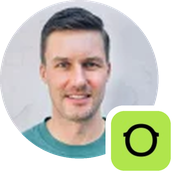
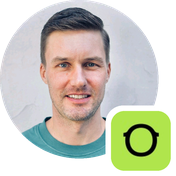
Author cards: new headshots, a card per author, role and bio on each skill page
The 04.11 author cards are now in the repo:
- avatars re-rendered from the new headshots (new photos for Bogdan Liutic,
  George Coudounaris and Moby Hayat), same round photo and company badge
- AUTHORS.md opens with a card per author: role, company, bio, what they
  wrote, LinkedIn and website; the credit tables follow under "Credit lines"
- each practitioner's skill page shows role and company and an
  "About the author" section
- no counts: "The other 26 skills" and "15 rules" read without the number

diff --git a/AUTHORS.md b/AUTHORS.md
@@ -2,7 +2,38 @@
 
 Every skill and scenario in this repository is published under [CC BY 4.0](LICENSE) with its author named. When you share or adapt one, credit the author below, link to the source folder and the licence, and say what you changed.
 
-## Scenarios
+## The authors
+
+<table>
+<tr>
+<td width="50%" valign="top"><a name="justin-rowe"></a><a href="https://www.linkedin.com/in/justin-rowe-4043339b/"><img src="assets/authors/justin-rowe.png" width="56" height="56" align="left" alt="Justin Rowe"></a>&nbsp; <b>Justin Rowe</b><br>&nbsp; <sub>Founder &amp; CEO · Impactable</sub><br clear="left"><br>Founder and CEO of Impactable, a LinkedIn-centered B2B demand agency that runs marketing ecosystems as one connected system. Specializes in signal-based targeting and account-level measurement tied to real deals and pipeline.<br><br><b>Wrote:</b> <a href="warm-lead-handoff">Warm-lead handoff</a> <sub>(scenario)</sub><br><br><sub><a href="https://www.linkedin.com/in/justin-rowe-4043339b/">LinkedIn</a> · <a href="https://impactable.com/">impactable.com</a></sub></td>
+<td width="50%" valign="top"><a name="roman-slobodzianyk"></a><a href="https://www.linkedin.com/in/roman-slobodzianyk-b67549140/"><img src="assets/authors/roman-slobodzianyk.png" width="56" height="56" align="left" alt="Roman Slobodzianyk"></a>&nbsp; <b>Roman Slobodzianyk</b><br>&nbsp; <sub>LinkedIn Ads CoE Leader · Impactable</sub><br clear="left"><br>Leads Impactable&#x27;s LinkedIn Ads Center of Excellence and manages its team of LinkedIn Ads specialists. Sets the standards, AI-assisted workflows and review routines used across the agency&#x27;s B2B client accounts.<br><br><b>Wrote:</b> <a href="account-audit-by-cadence">Account audit by cadence</a> <sub>(scenario)</sub><br><br><sub><a href="https://www.linkedin.com/in/roman-slobodzianyk-b67549140/">LinkedIn</a> · <a href="https://impactable.com/">impactable.com</a></sub></td>
+</tr>
+<tr>
+<td width="50%" valign="top"><a name="george-coudounaris"></a><a href="https://www.linkedin.com/in/b2b-marketing-expert/"><img src="assets/authors/george-coudounaris.png" width="56" height="56" align="left" alt="George Coudounaris"></a>&nbsp; <b>George Coudounaris</b><br>&nbsp; <sub>Co-founder · The B2B Playbook</sub><br clear="left"><br>Runs The B2B Playbook with Kevin Chen, a demand generation agency and consultancy running LinkedIn, Google and Meta ads for B2B teams. Co-hosts The B2B Playbook podcast, now past 200 episodes, and teaches demand generation to B2B marketing and revenue teams through the agency&#x27;s courses.<br><br><b>Wrote:</b> <a href="monthly-targeting-review">Targeting vs who actually buys</a> <sub>(scenario)</sub><br><br><sub><a href="https://www.linkedin.com/in/b2b-marketing-expert/">LinkedIn</a> · <a href="https://theb2bplaybook.com/">theb2bplaybook.com</a></sub></td>
+<td width="50%" valign="top"><a name="joshua-stout"></a><a href="https://www.linkedin.com/in/joshua-stout/"><img src="assets/authors/joshua-stout.png" width="56" height="56" align="left" alt="Joshua Stout"></a>&nbsp; <b>Joshua Stout</b><br>&nbsp; <sub>Founder · Beyond The Funnel</sub><br clear="left"><br>Founder of Beyond The Funnel, a B2B LinkedIn Ads agency. One of 80 LinkedIn Certified Marketing Experts worldwide, he has managed or overseen 1,000+ LinkedIn Ads accounts, helped scale a multimillion-dollar LinkedIn Ads service, and was Director of Advertising at Influent.<br><br><b>Wrote:</b> <a href="company-account-routing">Company-level account routing</a> <sub>(scenario)</sub><br><br><sub><a href="https://www.linkedin.com/in/joshua-stout/">LinkedIn</a> · <a href="https://www.beyondthefunnel.ai/">beyondthefunnel.ai</a></sub></td>
+</tr>
+<tr>
+<td width="50%" valign="top"><a name="jonathan-belliveau"></a><a href="https://www.linkedin.com/in/jonathan-belliveau/"><img src="assets/authors/jonathan-belliveau.png" width="56" height="56" align="left" alt="Jonathan Belliveau"></a>&nbsp; <b>Jonathan Belliveau</b><br>&nbsp; <sub>Founder &amp; Principal Revenue Architect · GrowthMotiv</sub><br clear="left"><br>Built GrowthMotiv, which builds the tracking and account intelligence that tie B2B ad spend to closed revenue. Has spent fifteen years running paid budgets across B2C and B2B SaaS, and specialises in account-based marketing built on Apollo.<br><br><b>Wrote:</b> <a href="audience-fit-check">LinkedIn fit gate + daily fit check</a> <sub>(scenario)</sub><br><br><sub><a href="https://www.linkedin.com/in/jonathan-belliveau/">LinkedIn</a> · <a href="https://growthmotiv.com/">growthmotiv.com</a></sub></td>
+<td width="50%" valign="top"><a name="bogdan-liutic"></a><a href="https://www.linkedin.com/in/bgdn/"><img src="assets/authors/bogdan-liutic.png" width="56" height="56" align="left" alt="Bogdan Liutic"></a>&nbsp; <b>Bogdan Liutic</b><br>&nbsp; <sub>Founder · CR8</sub><br clear="left"><br>Runs CR8, a LinkedIn Ads agency that targets companies by their public buying signals. A performance marketer, he built two businesses to seven figures on performance marketing and sales, wrote the LinkedIn ads playbook for Kyle Poyar&#x27;s Growth Unhinged, and won Clay&#x27;s 2026 GTM hackathon.<br><br><b>Wrote:</b> <a href="signal-list-routine">Signal loop</a> <sub>(scenario)</sub><br><br><sub><a href="https://www.linkedin.com/in/bgdn/">LinkedIn</a> · <a href="https://cr8.eco/">cr8.eco</a></sub></td>
+</tr>
+<tr>
+<td width="50%" valign="top"><a name="alfredo-talib"></a><a href="https://www.linkedin.com/in/alfredo-iscandar-talib/"><img src="assets/authors/alfredo-talib.png" width="56" height="56" align="left" alt="Alfredo Talib"></a>&nbsp; <b>Alfredo Talib</b><br>&nbsp; <sub>Founder · Cornersight</sub><br clear="left"><br>Built Cornersight, a tool that turns engagement on LinkedIn posts into leads scored against an ICP.<br><br><b>Wrote:</b> <a href="social-signals-to-pipeline">Turn social signals into pipeline</a> <sub>(scenario)</sub><br><br><sub><a href="https://www.linkedin.com/in/alfredo-iscandar-talib/">LinkedIn</a> · <a href="https://www.cornersight.io/">cornersight.io</a></sub></td>
+<td width="50%" valign="top"><a name="moby-hayat"></a><a href="https://www.linkedin.com/in/moby/"><img src="assets/authors/moby-hayat.png" width="56" height="56" align="left" alt="Moby Hayat"></a>&nbsp; <b>Moby Hayat</b><br>&nbsp; <sub>Founder · Fireshow Media</sub><br clear="left"><br>Runs paid media for B2B companies out of Austin, Texas, across LinkedIn, Meta and Google, and writes the ads himself. Has run Fireshow Media since 2016 and hosts Marketing Games, a show where B2B marketing leaders rank tactics.<br><br><b>Wrote:</b> <a href="conversion-ad-weekly-check">Weekly check for conversion campaigns</a> <sub>(scenario)</sub><br><br><sub><a href="https://www.linkedin.com/in/moby/">LinkedIn</a> · <a href="https://fireshowmedia.com/">fireshowmedia.com</a></sub></td>
+</tr>
+<tr>
+<td width="50%" valign="top"><a name="ivars-krutainis"></a><a href="https://www.linkedin.com/in/krutainis/"><img src="assets/authors/ivars-krutainis.png" width="56" height="56" align="left" alt="Ivars Krutainis"></a>&nbsp; <b>Ivars Krutainis</b><br>&nbsp; <sub>Founder · Otter</sub><br clear="left"><br>Runs Otter, an agency that runs LinkedIn Ads only, for B2B SaaS companies. Handles strategy and execution on every account himself, from targeting and creative briefs to reporting.<br><br><b>Wrote:</b> <a href="landing-page-cpc-report">Landing-page CPC report</a> <sub>(skill)</sub><br><br><sub><a href="https://www.linkedin.com/in/krutainis/">LinkedIn</a> · <a href="https://www.otterad.com/">otterad.com</a></sub></td>
+<td width="50%" valign="top"><a name="aj-wilcox"></a><a href="https://www.linkedin.com/in/wilcoxaj/"><img src="assets/authors/aj-wilcox.png" width="56" height="56" align="left" alt="AJ Wilcox"></a>&nbsp; <b>AJ Wilcox</b><br>&nbsp; <sub>Founder &amp; CEO · B2Linked</sub><br clear="left"><br>Runs B2Linked.com, a LinkedIn Ads agency and official LinkedIn Marketing Partner. Has run LinkedIn Ads since 2011, authored multiple courses for LinkedIn Learning, and hosts the LinkedIn Ads Show podcast.<br><br><b>Wrote:</b> <a href="cost-per-retargetable-member">Cost per retargetable member</a> <sub>(skill)</sub><br><br><sub><a href="https://www.linkedin.com/in/wilcoxaj/">LinkedIn</a> · <a href="https://b2linked.com/">b2linked.com</a></sub></td>
+</tr>
+<tr>
+<td width="50%" valign="top"><a name="ivan-falco"></a><a href="https://www.linkedin.com/in/ivanfalco/"><img src="assets/authors/ivan-falco.png" width="56" height="56" align="left" alt="Ivan Falco"></a>&nbsp; <b>Ivan Falco</b><br>&nbsp; <sub>Partner &amp; Head of ABM · Frontal</sub><br clear="left"><br>Leads ABM at Frontal, the B2B demand generation agency formerly known as ColdIQ Agency. Runs LinkedIn Ads and ABM programmes for tech companies, and publishes his own LinkedIn Ads skills for Claude.<br><br><b>Wrote:</b> <a href="linkedin-creative-fatigue-report">LinkedIn Creative Fatigue Report</a> <sub>(skill)</sub><br><br><sub><a href="https://www.linkedin.com/in/ivanfalco/">LinkedIn</a> · <a href="https://frontal.so/">frontal.so</a></sub></td>
+<td width="50%" valign="top"><a name="demandsense"></a><a href="https://demandsense.com/"><img src="assets/authors/demandsense.png" width="56" height="56" align="left" alt="DemandSense"></a>&nbsp; <b>DemandSense</b><br>&nbsp; <sub>Maintains the Standard</sub><br clear="left"><br>Builds software that shows B2B teams which accounts their LinkedIn Ads reach and what that turns into in pipeline. The DemandSense team wrote the Standard&#x27;s rules and keeps its skills library open on GitHub.<br><br><b>Wrote:</b> <a href="https://ds-b2b-ai-standards.vercel.app/rules">The rules</a>, <a href="linkedin-campaign-early-read">LinkedIn Campaign Early Read</a> and every skill not credited to an author here<br><br><sub><a href="https://demandsense.com/">demandsense.com</a></sub></td>
+</tr>
+</table>
+
+## Credit lines
+
+### Scenarios
 
 Each scenario is the routine its author runs on client accounts. DemandSense packaged it as a skill file together with the author, so each one is adapted by DemandSense from the author's original. LinkedIn Campaign Early Read is by DemandSense.
 
@@ -18,7 +49,7 @@ Each scenario is the routine its author runs on client accounts. DemandSense pac
 | [Weekly check for conversion campaigns](conversion-ad-weekly-check) | [Moby Hayat](https://www.linkedin.com/in/moby/), [Fireshow Media](https://fireshowmedia.com/) | Weekly check for conversion campaigns by Moby Hayat, Fireshow Media, adapted by DemandSense, CC BY 4.0 |
 | [LinkedIn Campaign Early Read](linkedin-campaign-early-read) | [DemandSense](https://demandsense.com) | LinkedIn Campaign Early Read by DemandSense, CC BY 4.0 |
 
-## Skills
+### Skills
 
 Three skills are by practitioners, packaged by DemandSense with the author:
 
@@ -28,7 +59,7 @@ Three skills are by practitioners, packaged by DemandSense with the author:
 | [Landing-page CPC report](landing-page-cpc-report) | [Ivars Krutainis](https://www.linkedin.com/in/krutainis/), [Otter](https://www.otterad.com/) | Landing-page CPC report by Ivars Krutainis, Otter, adapted by DemandSense, CC BY 4.0 |
 | [LinkedIn Creative Fatigue Report](linkedin-creative-fatigue-report) | [Ivan Falco](https://www.linkedin.com/in/ivanfalco/), [Frontal](https://frontal.so/) | LinkedIn Creative Fatigue Report by Ivan Falco, Frontal, adapted by DemandSense, CC BY 4.0 |
 
-The other 26 skills are by [DemandSense](https://demandsense.com). Credit line: `<Skill name> by DemandSense, CC BY 4.0`.
+The other skills are by [DemandSense](https://demandsense.com). Credit line: `<Skill name> by DemandSense, CC BY 4.0`.
 
 ## Rules
 

diff --git a/monthly-targeting-review/README.md b/monthly-targeting-review/README.md
@@ -6,7 +6,7 @@
 
 Who each campaign paid to reach next to the people on your deals, and where to move budget
 
-<a href="https://www.linkedin.com/in/b2b-marketing-expert/"><img src="../assets/authors/george-coudounaris.png" width="44" height="44" align="left" alt="George Coudounaris"></a>&nbsp; <b>George Coudounaris</b><br>&nbsp; <sub>The B2B Playbook</sub>
+<a href="https://www.linkedin.com/in/b2b-marketing-expert/"><img src="../assets/authors/george-coudounaris.png" width="44" height="44" align="left" alt="George Coudounaris"></a>&nbsp; <b>George Coudounaris</b><br>&nbsp; <sub>Co-founder · The B2B Playbook</sub>
 
 <br clear="left">
 
@@ -31,6 +31,12 @@ It gives recommendations only and changes nothing in your ad account or CRM.
 ```
 
 [`SKILL.md`](SKILL.md) holds the instructions the assistant follows.
+
+## About the author
+
+Runs The B2B Playbook with Kevin Chen, a demand generation agency and consultancy running LinkedIn, Google and Meta ads for B2B teams. Co-hosts The B2B Playbook podcast, now past 200 episodes, and teaches demand generation to B2B marketing and revenue teams through the agency's courses.
+
+[LinkedIn](https://www.linkedin.com/in/b2b-marketing-expert/) · [theb2bplaybook.com](https://theb2bplaybook.com/) · [All authors](../AUTHORS.md#george-coudounaris)
 
 ## Credit
 

diff --git a/audience-fit-check/README.md b/audience-fit-check/README.md
@@ -6,7 +6,7 @@
 
 A pass, one-more-week or rebuild call on a prospecting campaign, graded by the companies it reached against your ICP
 
-<a href="https://www.linkedin.com/in/jonathan-belliveau/"><img src="../assets/authors/jonathan-belliveau.png" width="44" height="44" align="left" alt="Jonathan Belliveau"></a>&nbsp; <b>Jonathan Belliveau</b><br>&nbsp; <sub>GrowthMotiv</sub>
+<a href="https://www.linkedin.com/in/jonathan-belliveau/"><img src="../assets/authors/jonathan-belliveau.png" width="44" height="44" align="left" alt="Jonathan Belliveau"></a>&nbsp; <b>Jonathan Belliveau</b><br>&nbsp; <sub>Founder &amp; Principal Revenue Architect · GrowthMotiv</sub>
 
 <br clear="left">
 
@@ -31,6 +31,12 @@ It gives recommendations only and changes nothing in your ad account or CRM.
 ```
 
 [`SKILL.md`](SKILL.md) holds the instructions the assistant follows.
+
+## About the author
+
+Built GrowthMotiv, which builds the tracking and account intelligence that tie B2B ad spend to closed revenue. Has spent fifteen years running paid budgets across B2C and B2B SaaS, and specialises in account-based marketing built on Apollo.
+
+[LinkedIn](https://www.linkedin.com/in/jonathan-belliveau/) · [growthmotiv.com](https://growthmotiv.com/) · [All authors](../AUTHORS.md#jonathan-belliveau)
 
 ## Credit
 

diff --git a/company-account-routing/README.md b/company-account-routing/README.md
@@ -6,7 +6,7 @@
 
 Which companies take most of the impressions, which are underserved, and which to move into their own audience
 
-<a href="https://www.linkedin.com/in/joshua-stout/"><img src="../assets/authors/joshua-stout.png" width="44" height="44" align="left" alt="Joshua Stout"></a>&nbsp; <b>Joshua Stout</b><br>&nbsp; <sub>Beyond The Funnel</sub>
+<a href="https://www.linkedin.com/in/joshua-stout/"><img src="../assets/authors/joshua-stout.png" width="44" height="44" align="left" alt="Joshua Stout"></a>&nbsp; <b>Joshua Stout</b><br>&nbsp; <sub>Founder · Beyond The Funnel</sub>
 
 <br clear="left">
 
@@ -31,6 +31,12 @@ It gives recommendations only and changes nothing in your ad account or CRM.
 ```
 
 [`SKILL.md`](SKILL.md) holds the instructions the assistant follows.
+
+## About the author
+
+Founder of Beyond The Funnel, a B2B LinkedIn Ads agency. One of 80 LinkedIn Certified Marketing Experts worldwide, he has managed or overseen 1,000+ LinkedIn Ads accounts, helped scale a multimillion-dollar LinkedIn Ads service, and was Director of Advertising at Influent.
+
+[LinkedIn](https://www.linkedin.com/in/joshua-stout/) · [beyondthefunnel.ai](https://www.beyondthefunnel.ai/) · [All authors](../AUTHORS.md#joshua-stout)
 
 ## Credit
 

diff --git a/account-audit-by-cadence/README.md b/account-audit-by-cadence/README.md
@@ -6,7 +6,7 @@
 
 Eight account checks on a schedule: what to fix today, this week and this month
 
-<a href="https://www.linkedin.com/in/roman-slobodzianyk-b67549140/"><img src="../assets/authors/roman-slobodzianyk.png" width="44" height="44" align="left" alt="Roman Slobodzianyk"></a>&nbsp; <b>Roman Slobodzianyk</b><br>&nbsp; <sub>Impactable</sub>
+<a href="https://www.linkedin.com/in/roman-slobodzianyk-b67549140/"><img src="../assets/authors/roman-slobodzianyk.png" width="44" height="44" align="left" alt="Roman Slobodzianyk"></a>&nbsp; <b>Roman Slobodzianyk</b><br>&nbsp; <sub>LinkedIn Ads CoE Leader · Impactable</sub>
 
 <br clear="left">
 
@@ -31,6 +31,12 @@ It gives recommendations only and changes nothing in your ad account or CRM.
 ```
 
 [`SKILL.md`](SKILL.md) holds the instructions the assistant follows.
+
+## About the author
+
+Leads Impactable's LinkedIn Ads Center of Excellence and manages its team of LinkedIn Ads specialists. Sets the standards, AI-assisted workflows and review routines used across the agency's B2B client accounts.
+
+[LinkedIn](https://www.linkedin.com/in/roman-slobodzianyk-b67549140/) · [impactable.com](https://impactable.com/) · [All authors](../AUTHORS.md#roman-slobodzianyk)
 
 ## Credit
 

diff --git a/warm-lead-handoff/README.md b/warm-lead-handoff/README.md
@@ -6,7 +6,7 @@
 
 A short list of who sales should call this week, with one handoff line per account
 
-<a href="https://www.linkedin.com/in/justin-rowe-4043339b/"><img src="../assets/authors/justin-rowe.png" width="44" height="44" align="left" alt="Justin Rowe"></a>&nbsp; <b>Justin Rowe</b><br>&nbsp; <sub>Impactable</sub>
+<a href="https://www.linkedin.com/in/justin-rowe-4043339b/"><img src="../assets/authors/justin-rowe.png" width="44" height="44" align="left" alt="Justin Rowe"></a>&nbsp; <b>Justin Rowe</b><br>&nbsp; <sub>Founder &amp; CEO · Impactable</sub>
 
 <br clear="left">
 
@@ -31,6 +31,12 @@ It gives recommendations only and changes nothing in your ad account or CRM.
 ```
 
 [`SKILL.md`](SKILL.md) holds the instructions the assistant follows.
+
+## About the author
+
+Founder and CEO of Impactable, a LinkedIn-centered B2B demand agency that runs marketing ecosystems as one connected system. Specializes in signal-based targeting and account-level measurement tied to real deals and pipeline.
+
+[LinkedIn](https://www.linkedin.com/in/justin-rowe-4043339b/) · [impactable.com](https://impactable.com/) · [All authors](../AUTHORS.md#justin-rowe)
 
 ## What to give the assistant
 

diff --git a/conversion-ad-weekly-check/README.md b/conversion-ad-weekly-check/README.md
@@ -6,7 +6,7 @@
 
 Lead Gen Form and Message ads judged against your goal cost per lead: what to pause and which winners to copy
 
-<a href="https://www.linkedin.com/in/moby/"><img src="../assets/authors/moby-hayat.png" width="44" height="44" align="left" alt="Moby Hayat"></a>&nbsp; <b>Moby Hayat</b><br>&nbsp; <sub>Fireshow Media</sub>
+<a href="https://www.linkedin.com/in/moby/"><img src="../assets/authors/moby-hayat.png" width="44" height="44" align="left" alt="Moby Hayat"></a>&nbsp; <b>Moby Hayat</b><br>&nbsp; <sub>Founder · Fireshow Media</sub>
 
 <br clear="left">
 
@@ -31,6 +31,12 @@ It gives recommendations only and changes nothing in your ad account or CRM.
 ```
 
 [`SKILL.md`](SKILL.md) holds the instructions the assistant follows.
+
+## About the author
+
+Runs paid media for B2B companies out of Austin, Texas, across LinkedIn, Meta and Google, and writes the ads himself. Has run Fireshow Media since 2016 and hosts Marketing Games, a show where B2B marketing leaders rank tactics.
+
+[LinkedIn](https://www.linkedin.com/in/moby/) · [fireshowmedia.com](https://fireshowmedia.com/) · [All authors](../AUTHORS.md#moby-hayat)
 
 ## Credit
 

diff --git a/signal-list-routine/README.md b/signal-list-routine/README.md
@@ -6,7 +6,7 @@
 
 Which named target companies to write to this week, and why now
 
-<a href="https://www.linkedin.com/in/bgdn/"><img src="../assets/authors/bogdan-liutic.png" width="44" height="44" align="left" alt="Bogdan Liutic"></a>&nbsp; <b>Bogdan Liutic</b><br>&nbsp; <sub>CR8</sub>
+<a href="https://www.linkedin.com/in/bgdn/"><img src="../assets/authors/bogdan-liutic.png" width="44" height="44" align="left" alt="Bogdan Liutic"></a>&nbsp; <b>Bogdan Liutic</b><br>&nbsp; <sub>Founder · CR8</sub>
 
 <br clear="left">
 
@@ -31,6 +31,12 @@ It gives recommendations only and changes nothing in your ad account or CRM.
 ```
 
 [`SKILL.md`](SKILL.md) holds the instructions the assistant follows.
+
+## About the author
+
+Runs CR8, a LinkedIn Ads agency that targets companies by their public buying signals. A performance marketer, he built two businesses to seven figures on performance marketing and sales, wrote the LinkedIn ads playbook for Kyle Poyar's Growth Unhinged, and won Clay's 2026 GTM hackathon.
+
+[LinkedIn](https://www.linkedin.com/in/bgdn/) · [cr8.eco](https://cr8.eco/) · [All authors](../AUTHORS.md#bogdan-liutic)
 
 ## Credit
 

diff --git a/cost-per-retargetable-member/README.md b/cost-per-retargetable-member/README.md
@@ -6,7 +6,7 @@
 
 What it costs to add one person to your retargeting audience, and the ad type and objective that do it cheapest
 
-<a href="https://www.linkedin.com/in/wilcoxaj/"><img src="../assets/authors/aj-wilcox.png" width="44" height="44" align="left" alt="AJ Wilcox"></a>&nbsp; <b>AJ Wilcox</b><br>&nbsp; <sub>B2Linked</sub>
+<a href="https://www.linkedin.com/in/wilcoxaj/"><img src="../assets/authors/aj-wilcox.png" width="44" height="44" align="left" alt="AJ Wilcox"></a>&nbsp; <b>AJ Wilcox</b><br>&nbsp; <sub>Founder &amp; CEO · B2Linked</sub>
 
 <br clear="left">
 
@@ -31,6 +31,12 @@ It gives recommendations only and changes nothing in your ad account or CRM.
 ```
 
 [`SKILL.md`](SKILL.md) holds the instructions the assistant follows.
+
+## About the author
+
+Runs B2Linked.com, a LinkedIn Ads agency and official LinkedIn Marketing Partner. Has run LinkedIn Ads since 2011, authored multiple courses for LinkedIn Learning, and hosts the LinkedIn Ads Show podcast.
+
+[LinkedIn](https://www.linkedin.com/in/wilcoxaj/) · [b2linked.com](https://b2linked.com/) · [All authors](../AUTHORS.md#aj-wilcox)
 
 ## Credit
 

diff --git a/landing-page-cpc-report/README.md b/landing-page-cpc-report/README.md
@@ -6,7 +6,7 @@
 
 What one visit to your site really costs, with ad sets ranked from cheapest to dearest
 
-<a href="https://www.linkedin.com/in/krutainis/"><img src="../assets/authors/ivars-krutainis.png" width="44" height="44" align="left" alt="Ivars Krutainis"></a>&nbsp; <b>Ivars Krutainis</b><br>&nbsp; <sub>Otter</sub>
+<a href="https://www.linkedin.com/in/krutainis/"><img src="../assets/authors/ivars-krutainis.png" width="44" height="44" align="left" alt="Ivars Krutainis"></a>&nbsp; <b>Ivars Krutainis</b><br>&nbsp; <sub>Founder · Otter</sub>
 
 <br clear="left">
 
@@ -31,6 +31,12 @@ It gives recommendations only and changes nothing in your ad account or CRM.
 ```
 
 [`SKILL.md`](SKILL.md) holds the instructions the assistant follows.
+
+## About the author
+
+Runs Otter, an agency that runs LinkedIn Ads only, for B2B SaaS companies. Handles strategy and execution on every account himself, from targeting and creative briefs to reporting.
+
+[LinkedIn](https://www.linkedin.com/in/krutainis/) · [otterad.com](https://www.otterad.com/) · [All authors](../AUTHORS.md#ivars-krutainis)
 
 ## Credit
 

diff --git a/linkedin-creative-fatigue-report/README.md b/linkedin-creative-fatigue-report/README.md
@@ -6,7 +6,7 @@
 
 Which ads are wearing out, in which ad set, how fast, and whether to pause them
 
-<a href="https://www.linkedin.com/in/ivanfalco/"><img src="../assets/authors/ivan-falco.png" width="44" height="44" align="left" alt="Ivan Falco"></a>&nbsp; <b>Ivan Falco</b><br>&nbsp; <sub>Frontal</sub>
+<a href="https://www.linkedin.com/in/ivanfalco/"><img src="../assets/authors/ivan-falco.png" width="44" height="44" align="left" alt="Ivan Falco"></a>&nbsp; <b>Ivan Falco</b><br>&nbsp; <sub>Partner &amp; Head of ABM · Frontal</sub>
 
 <br clear="left">
 
@@ -31,6 +31,12 @@ It gives recommendations only and changes nothing in your ad account or CRM.
 ```
 
 [`SKILL.md`](SKILL.md) holds the instructions the assistant follows.
+
+## About the author
+
+Leads ABM at Frontal, the B2B demand generation agency formerly known as ColdIQ Agency. Runs LinkedIn Ads and ABM programmes for tech companies, and publishes his own LinkedIn Ads skills for Claude.
+
+[LinkedIn](https://www.linkedin.com/in/ivanfalco/) · [frontal.so](https://frontal.so/) · [All authors](../AUTHORS.md#ivan-falco)
 
 ## Credit
 

diff --git a/social-signals-to-pipeline/README.md b/social-signals-to-pipeline/README.md
@@ -6,7 +6,7 @@
 
 Two company lists from engagement on LinkedIn posts: one for sales review, one for nurture
 
-<a href="https://www.linkedin.com/in/alfredo-iscandar-talib/"><img src="../assets/authors/alfredo-talib.png" width="44" height="44" align="left" alt="Alfredo Talib"></a>&nbsp; <b>Alfredo Talib</b><br>&nbsp; <sub>Cornersight</sub>
+<a href="https://www.linkedin.com/in/alfredo-iscandar-talib/"><img src="../assets/authors/alfredo-talib.png" width="44" height="44" align="left" alt="Alfredo Talib"></a>&nbsp; <b>Alfredo Talib</b><br>&nbsp; <sub>Founder · Cornersight</sub>
 
 <br clear="left">
 
@@ -31,6 +31,12 @@ It gives recommendations only and changes nothing in your ad account or CRM.
 ```
 
 [`SKILL.md`](SKILL.md) holds the instructions the assistant follows.
+
+## About the author
+
+Built Cornersight, a tool that turns engagement on LinkedIn posts into leads scored against an ICP.
+
+[LinkedIn](https://www.linkedin.com/in/alfredo-iscandar-talib/) · [cornersight.io](https://www.cornersight.io/) · [All authors](../AUTHORS.md#alfredo-talib)
 
 ## Credit
 
